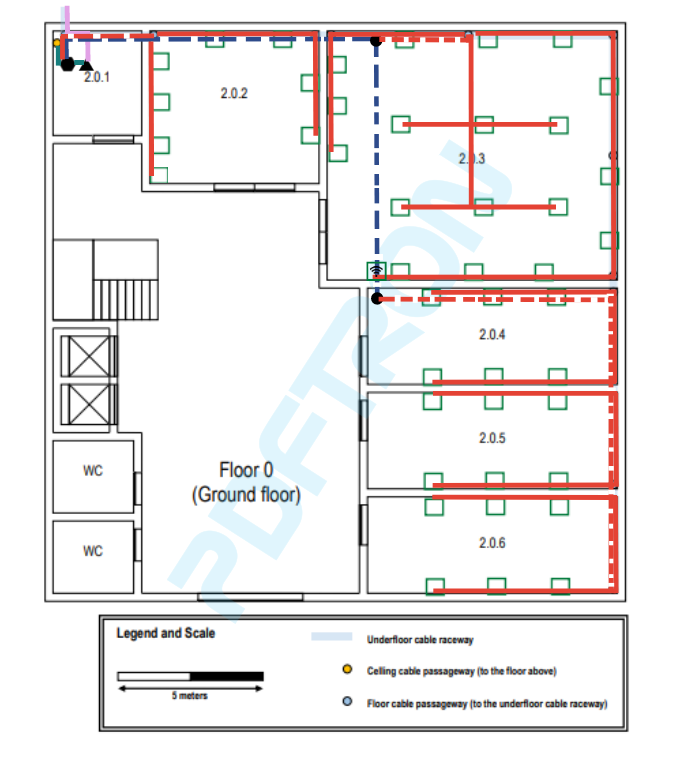
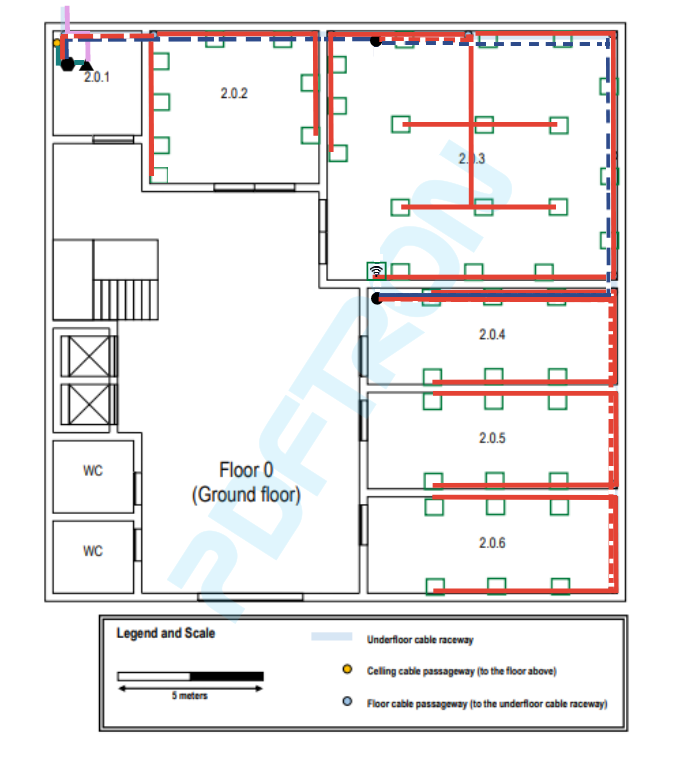
Last md changes

diff --git a/doc/Sprint1/1201371/1201371.md b/doc/Sprint1/1201371/1201371.md
@@ -1,12 +1,26 @@
-RCOMP 21/22 - Sprint 1 - 1201381
+RCOMP 21/22 - Sprint 1 - 1201371
 ===========================================
 
 This md file will contain all explanations and justifications about the choices taken during the realization of the sprint.
 
-#Building 3
+>>## These were the followed structured cabling standards:
+>
+>>- Minimum of 2 outlets per work area.
+>>- Proportion of 2 outlets for every 10 square meters of area.
+>>- Patch cords can reach up to 5 meters.
+>>- There must always be an outlet less than 3 meters from the user's equipment.
+>>- Work areas require copper cable outlets.
+>>- Each cable length should be less than 90 meters.
+>>- The total area covered by a horizontal cross-connect should be less than 1000 m2.
+>>- Straight line distance between the horizontal cross-connect and the outlet should be less than 80 meters.
+>>- Cables connecting an intermediate cross-connect (IC) to a horizontal cross-connect (HC) are limited to 500 meters in length.
+>>- Cables connecting the main cross-connect (MC) to an IC are limited to 1500 meters in length.
+>>- The number of cables entering a telecommunications cabinet must always be less than 200.
+
+#Building 2
 
 > ##Measurements
-> The following figures represents all measures considered on both floors.
+> The following figures represents all measurements considered on both floors.
 > 
 > ![GroundFloorMeasurements](Figures/Andar0Medidas.PNG)<br>
 _**Figure 1** - Ground floor measurements_
@@ -15,7 +29,7 @@ _**Figure 1** - Ground floor measurements_
 _**Figure 2** - First floor measurements_
 > 
 > As we can see in the legend of both figures, there are represented the scale used on the calculation of these measures (2,75cm = 5m).<br />
-> These measures will be important in the calculation of the number of outlets by room. So, as is referred to in the sprint description, the storage area (2.0.1 and 2.1.1), restrooms, and the entrance hall are not required to have outlets in there, so the measures of these places are ignored.
+> These measurements will be important in the calculation of the number of outlets by room. So, as is referred to in the sprint description, the storage area (2.0.1 and 2.1.1), restrooms, and the entrance hall are not required to have outlets in there, so the mesurements of these places are ignored.
 > ##Outlet design
 > 
 > After having all measurements of both floors, we can go on to the outlet calculation and design. To calculate the number of outlets by room, we use the 2 outlets by 10m^2 rule.
@@ -50,7 +64,7 @@ _**Figure 8** - Ground Floor Design_
 > 
 > As we can see, on this floor we have an HC and IC localized in the storage area, being that IC supports the building (both floors) and HC supports the floor. The cables go through the underfloor cable raceway to reach other rooms.<br>
 > The access-point is localized in the ceiling of the 2.0.3 room, so it is the most centered room in our floor. The range radius of the access-point is 25 meters long, so it is not a problem to cover the floor with wi-fi connection.<br>
-> The CPs is placed in the underfloor of the 2.0.4  because there are a great concentration of outlets in the rooms nearby.<br>
+> The CPs are placed in the room 2.0.4 and 2.0.3 because there are a great concentration of outlets in the rooms nearby.<br>
 > 
 > The following figure has represented the design for the first floor.
 >
@@ -68,61 +82,66 @@ Remains analyze the inventory required for these designs.
 >>
 > All the " * 8 "in the fibre connecting is about the redundancy.
 >>
->> **MC(Other ICs)(indoor) to IC : 2.2m * 8 = 17.6m**
+>> **MC(Other ICs)(indoor) to IC : 2.2m x 8 = 17.6m**
 >> 
->> **IC to Other ICs: 2.2m * 24(8 for each building) = 52.8m**
+>> **IC to Other ICs: 2.2m x 24(8 for each building) = 52.8m**
 >>
->> **IC to HC : 0.3m * 8 = 2.4m**
+>> **IC to HC : 0.3m x 8 = 2.4m**
 >> 
->> **IC to Floor 1 HC: 2.4m * 8= 19.2**
+>> **IC to Floor 1 HC: 2.4m x 8= 19.2**
 >> 
->> **HC to HC : 2m * 8 = 16m**
+>> **HC to HC : 2m x 8 = 16m**
 >> 
 >>####**Floor 0**
 >> 
->> HC to CP(2.0.3): 11.75m * 8 = 94m
+>> HC to CP(2.0.3): 11.75m x 8 = 94m
 >> 
->> HC to CP(2.0.4): 20.9m * 8 = 167.2m
+>> HC to CP(2.0.4): 37.7m x 8 = 301.6m
 >> 
 >> HC to outlets: 68.35m
 >> 
 >> CP(2.0.3) to outlets: 234.45m + 4m (access point no teto)
 >> 
+>> CP to CP: 9.15m
 >> 
 >> CP(2.0.4) to outlets: 362.9m
 >> 
->> **Total distancia até aos outlets: 656.7m**
+>> **Total cable length connecting to outlets: 656.7m**
 >> 
->> **Total cabo utilizado pós outlet(5m cada): 44 * 5 = 220m**
+>> **Total cable length for end users (5 meters each): 44 x 5 = 220m**
 >> 
->> **Total cabo utilizado enclosure fibra(0.5m cada): 96 * 0.5 * 2 = 96m**
+>> **Total fibre cable length inside TE (0.5m each): 96 x 0.5 x 2 = 96m**
 >>
->> **Total cabo utilizado enclosure CAT7(0.5m cada): 24 * 0.5 = 12m**
+>> **Total copper cable length inside TE (0.5m each): 24 x 0.5 = 12m**
 >>
 >
 >> ####**Floor 1**
 >> 
->> HC to CP(2.1.4): 9.60m * 8 = 76.8m
+>> HC to CP(2.1.4): 9.60m x 8 = 76.8m
 >> 
->> HC to CP(2.1.7): 20.25m * 8 = 162m
+>> HC to CP(2.1.7): 20.25m x 8 = 162m
 >> 
->> HC to CP(2.1.10): 24.30m * 8 = 194.4m
->> 
->> 
->> CP(2.1.4) to outlets: 180.5m + 20m (1 metro por cada outlet (descida do teto falso))
+>> HC to CP(2.1.10): 24.30m x 8 = 194.4m
 >> 
 >> 
->> CP(2.1.7) to outlets: 99.2m + 12m (1 metro por cada outlet (descida do teto falso))
+>> CP(2.1.4) to outlets: 180.5m + 20m (1 meter for each outlet (descent of the dropped ceiling))
 >> 
 >> 
->> CP(2.1.10) to outlets: 173.71m + 16m (1 metro por cada outlet (descida do teto falso))
+>> CP(2.1.7) to outlets: 99.2m + 12m (1 meter for each outlet (descent of the dropped ceiling))
 >> 
+>> CP(2.1.10) to outlets: 173.71m + 16m (1 meter for each outlet (descent of the dropped ceiling))
 >> 
->> **Total CPs para outlets: 453.41m + 48m  (1 metro por cada outlet (descida do teto falso))**
+>> CP(2.1.4) to CP(2.1.7):10.65m 
+>> 
+>> CP(2.1.4) to CP(2.1.10):10.70m
+>> 
+>> CP(2.1.7) to CP(2.1.10): 5.25m
 >>
->> **Total cabo utilizado pós outlet(5m cada): 48 * 5 = 240m**
+>> **Total CPs to outlets: 453.41m + 48m  (1 meter for each outlet (descent of the dropped ceiling))**
 >>
->> **Total cabo utilizado enclosure fibra(0.5m cada): 48 * 0.5 * 2 = 48m**
+>> **Total cable length for end users (5 meters each): 48 x 5 = 240m**
+>>
+>> **Total fibre cable length inside TE (0.5m each): 48 x 0.5 x 2 = 48m**
 >>
 >
 >> ###Outlets
@@ -139,7 +158,7 @@ Remains analyze the inventory required for these designs.
 >>
 >>  * 1 fibre patch panel with 48 ports (IC)
 >>  * 1 fibre patch panel with 48 ports (HC)
->>  * 1 cobber (CAT7) patch panel with 24 ports (HC)
+>>  * 1 copper (CAT7) patch panel with 24 ports (HC)
 >>
 >>####Floor 1
 >>
@@ -156,19 +175,19 @@ Remains analyze the inventory required for these designs.
 >>
 >>####Ground Floor
 >>
->>  * 2 consolidation points with 24 ports each
+>>  * 2 consolidation points with 24 copper ports and 24 fibre ports each 
 >>
 >>####First Floor
 >>
->>  * 3 consolidation points with 24 ports each
+>>  * 3 consolidation points with 24 copper ports and 24 fibre ports
 >
 >
 >>###Telecommunication enclosure
 >>
 >>####Floor 0
 >>
->> * 8U
+>> * (2x1.5x2U) + (2x1.5x2U) + (2x1.5x1U) ~= 16U 
 >>
 >>####Floor 1
 >>
->> * 3U
+>> * (2x1.5x2U) = 6U

diff --git a/doc/Sprint1/1201276/1201276.md b/doc/Sprint1/1201276/1201276.md
@@ -3,6 +3,21 @@ RCOMP 21/22 - Sprint 1 - 1201276
 
 This md file will contain all explanations and justifications about the choices taken during the realization of the sprint.
 
+>>## These were the followed structured cabling standards:
+>
+>>- Minimum of 2 outlets per work area.
+>>- Proportion of 2 outlets for every 10 square meters of area.
+>>- Patch cords can reach up to 5 meters.
+>>- There must always be an outlet less than 3 meters from the user's equipment.
+>>- Work areas require copper cable outlets.
+>>- Each cable length should be less than 90 meters.
+>>- The total area covered by a horizontal cross-connect should be less than 1000 m2.
+>>- Straight line distance between the horizontal cross-connect and the outlet should be less than 80 meters.
+>>- Cables connecting an intermediate cross-connect (IC) to a horizontal cross-connect (HC) are limited to 500 meters in length.
+>>- Cables connecting the main cross-connect (MC) to an IC are limited to 1500 meters in length.
+>>- The number of cables entering a telecommunications cabinet must always be less than 200.
+
+
 # Building 4
 
 > ## Measurements
@@ -84,6 +99,18 @@ Finally, concerning the inventory required for both floors, these were our choic
 >>>
 >>> * HC to outlets (4.0.6 and 4.0.7): 91,46 m copper cable
 >>>
+>>> * CP (4.0.1) to CP (4.0.2): 6,77 m fibre cable
+>>>
+>>> * CP (4.0.1) to CP (4.0.3): 10,41 m fibre cable
+>>>
+>>> * CP (4.0.1) to CP (4.0.4): 11,1 m fibre cable
+>>>
+>>> * CP (4.0.2) to CP (4.0.3): 6,78 m fibre cable
+>>>
+>>> * CP (4.0.2) to CP (4.0.4): 7,29 m fibre cable
+>>>
+>>> * CP (4.0.3) to CP (4.0.4): 3,74 m fibre cable
+>>>
 >>> * **Total cable length for end users (5 meters each): 43 * 5 = 215 m**
 >>>
 >>> * **Total cable length connecting to outlets: 335,15 m**
@@ -107,6 +134,20 @@ Finally, concerning the inventory required for both floors, these were our choic
 >>> * CP (4.1.5) to outlets: 187,91 m copper cable 
 >>>
 >>> * HC to CP (4.1.7): 20,29 m * 8 = 162,32 m fibre cable 
+>>>
+>>>* CP (4.1.7) to outlets: 133,67 m copper cable 
+>>>
+>>> * CP (4.1.4) to CP (4.1.1): 26,83 m fibre cable
+>>>
+>>> * CP (4.1.4) to CP (4.1.5): 17,88 m fibre cable
+>>>
+>>> * CP (4.1.4) to CP (4.1.7): 21,19 m fibre cable
+>>>
+>>> * CP (4.1.1) to CP (4.1.5): 49,19 m fibre cable
+>>>
+>>> * CP (4.1.1) to CP (4.1.7): 52,54 m fibre cable
+>>>
+>>> * CP (4.1.5) to CP (4.1.7): 10,79 m fibre cable
 >>>
 >>> * **Total cable length for end users (5 meters each): 60 * 5 = 300 m**
 >>>
@@ -144,14 +185,14 @@ Finally, concerning the inventory required for both floors, these were our choic
 >>>
 >>> #### Ground Floor
 >>>
->>> * 4 consolidation points with 24 ports
+>>> * 4 consolidation points with 24 copper ports and 24 fibre ports
 >>
 >>> #### First Floor
 >>>
->>> * 4 consolidation points with 24 ports
+>>> * 4 consolidation points with 24 copper ports and 24 fibre ports
 >> ### **Telecommunication enclosure**
 >>> #### Ground Floor
->>> * 16U (1.5x2x2U + 1.5x2x2U + 1.5x2x1U)
+>>> * 16U ~= (1.5x2x2U + 1.5x2x2U + 1.5x2x1U)
 >>
 >>> #### First Floor
 >>> * 9U (1.5x2x2U + 1.5x2x1U)

diff --git a/doc/Sprint1/1201381/1201381.md b/doc/Sprint1/1201381/1201381.md
@@ -2,6 +2,22 @@ RCOMP 21/22 - Sprint 1 - 1201381
 ===========================================
 
 This md file will contain all explanations and justifications about the choices taken during the realization of the sprint.
+
+>>## These were the followed structured cabling standards:
+>
+>>- Minimum of 2 outlets per work area.
+>>- Proportion of 2 outlets for every 10 square meters of area.
+>>- Patch cords can reach up to 5 meters.
+>>- There must always be an outlet less than 3 meters from the user's equipment.
+>>- Work areas require copper cable outlets.
+>>- Each cable length should be less than 90 meters.
+>>- The total area covered by a horizontal cross-connect should be less than 1000 m2.
+>>- Straight line distance between the horizontal cross-connect and the outlet should be less than 80 meters.
+>>- Cables connecting an intermediate cross-connect (IC) to a horizontal cross-connect (HC) are limited to 500 meters in length.
+>>- Cables connecting the main cross-connect (MC) to an IC are limited to 1500 meters in length.
+>>- The number of cables entering a telecommunications cabinet must always be less than 200.
+
+
 #Building 3
 
 > ##Measurements
@@ -123,7 +139,7 @@ Remains analyze the inventory required for these designs.
 >>  Total cable used in fibre enclosure: 48x0.5x2 = 48m
 >>
 >> *Note*: The type of the fibre cables used is monomode optical fibre and the copper cables used is CAT7.
->> All fibre cables are multiplied by 8 (redundancy).
+>> #####All the backbone connections are multiplied by 8 (redundancy).
 >
 >> ###Outlets
 >>####Ground Floor
@@ -156,11 +172,11 @@ Remains analyze the inventory required for these designs.
 >>
 >>####Ground Floor
 >>
->>  * 2 consolidation points with 24 ports
+>>  * 2 consolidation points with 24 copper ports and 24 fibre ports
 >>
 >>####First Floor
 >>
->>  * 3 consolidation points with 24 ports
+>>  * 3 consolidation points with 24 copper ports and 24 fibre ports
 > 
 >>###Telecommunication enclosure
 >>
